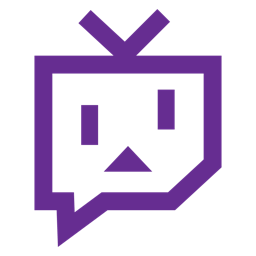
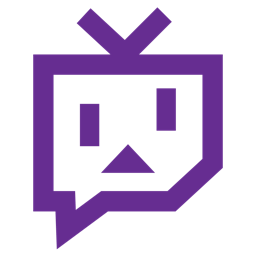
feat: 太くなった新しいロゴでSafari拡張機能のアイコンを更新
- すべてのSafari拡張機能アイコンサイズ（16px-512px）を新しいロゴに差し替え
- 前のロゴより少し太くなったデザインを適用
- toolbar-icon.pngも更新

🤖 Generated with [Claude Code](https://claude.ai/code)

diff --git a/CLAUDE.md b/CLAUDE.md
@@ -114,12 +114,27 @@ Safari の Web Inspector でコンテンツスクリプトをデバッグ:
 - **ポップアップが表示されない**: `manifest.json`で`default_popup`と`action.onClicked`は競合する
 - **メッセージが届かない**: content script と background script の通信にはtabs.sendMessage使用
 
+### アイコン管理
+
+**iOS 18 Liquid Glass対応**:
+- `AppIcon_liquid.icon`ファイルはTwitchChatFlowディレクトリ直下に配置
+- Xcode 16ベータ版が必要（通常版ではコンパイルエラー）
+- App Icons and Launch Screen設定で "AppIcon_liquid" を指定
+
+**Safari拡張機能アイコン**:
+- `TwitchChatFlow Extension/Resources/images/`内のアイコンファイル
+- manifest.jsonで16px、48px、128pxを参照
+- 追加サイズ（64px、96px、256px、512px）も生成済み
+
 ## 開発コマンド
 
-### Xcodeプロジェクト生成
+### ビルドとテスト
 ```bash
-# XcodeGenを使用してプロジェクトファイル生成
-xcodegen generate
+# 標準ビルド（Xcode 16ベータ版推奨）
+xcodebuild -project TwitchChatFlow.xcodeproj -scheme TwitchChatFlow -destination 'platform=iOS Simulator,name=iPhone 16 Pro,OS=18.4' build
+
+# クリーンビルド
+xcodebuild -project TwitchChatFlow.xcodeproj -scheme TwitchChatFlow -destination 'platform=iOS Simulator,name=iPhone 16 Pro,OS=18.4' clean build
 ```
 
 ### 拡張機能デバッグ
